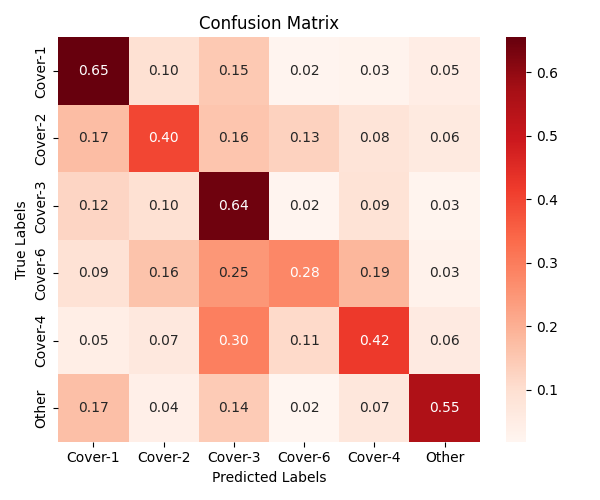
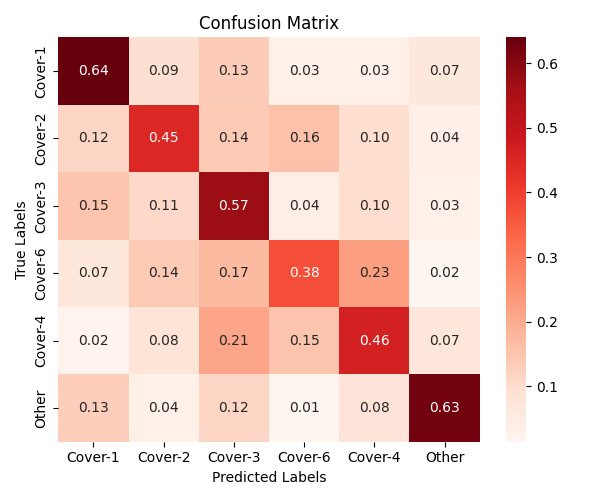
added feature for offensive_formation

diff --git a/passing_down.py b/passing_down.py
@@ -52,13 +52,15 @@ class PassingDown():
             target_y = stat_encodings.encode_passCoverage(play['pff_passCoverage'])
             if target_y == -1:
                 print('\tExcluded')
-                return torch.zeros(54)
+                return torch.zeros(55)
             
             # Extract pff_manZone
             man_zone = stat_encodings.encode_manZone(play['pff_manZone'])
 
-            # Extract receiverAlignment
-            alignment = stat_encodings.encode_receiverAlignment(play['receiverAlignment'])
+            # Extract receiverAlignment and offensiveFormation
+            receiver_alignment = stat_encodings.encode_receiverAlignment(play['receiverAlignment'])
+            offensive_formation = stat_encodings.encode_offenseFormation(play['offensiveFormation'])
+
 
             # Extract possessionTeamScoreDiff
             play_temp = pd.DataFrame([play])
@@ -225,7 +227,8 @@ class PassingDown():
 
                 
             # Combine all input features
-            features['offensive_alignment'] = alignment
+            features['receiver_alignment'] = receiver_alignment
+            features['offensive_formation'] = offensive_formation
             features['possessionTeamScoreDiff'] = possessionTeamScoreDiff
             features['quarter'] = quarter
             features['down'] = down
@@ -261,7 +264,8 @@ class PassingDown():
             if verbose:
                 print('TARGET_Y:\t\t\t', target_y)
                 print('Man or Zone:\t\t\t', man_zone)
-                print('offensive_alignment:\t\t', alignment)
+                print('receiver_alignment:\t\t', receiver_alignment)
+                print('offensive_formation:\t\t', offensive_formation)
                 print('possessionTeamScoreDiff:\t', possessionTeamScoreDiff)
                 print('quarter:\t\t\t', quarter)
                 print('down:\t\t\t\t', down)
@@ -304,7 +308,7 @@ class PassingDown():
         
         except Exception as e:
             print('\tError processing:', e)
-            return torch.zeros(54)
+            return torch.zeros(55)
 
 
 
@@ -328,8 +332,8 @@ class PassingDown():
         print('all passing play length:', len(passing_play_data))
 
         count = 0
-        start = 0
-        limit = 2500
+        start = 2500
+        limit = 5500
         for i,passing_play in passing_play_data.iterrows():
             count += 1
             if count <= start:
@@ -388,7 +392,7 @@ class PassingDown():
         columns = ['defender1_x', 'defender1_y', 'defender2_x', 'defender2_y', 'defender3_x', 'defender3_y', 
         'defender4_x', 'defender4_y', 'defender5_x', 'defender5_y', 'defender6_x', 'defender6_y',
         'defender7_x', 'defender7_y', 'defender8_x', 'defender8_y', 'defender9_x', 'defender9_y', 
-        'defender10_x', 'defender10_y', 'defender11_x', 'defender11_y', 'offensive_alignment', 
+        'defender10_x', 'defender10_y', 'defender11_x', 'defender11_y', 'receiver_alignment', 'offensive_formation', 
         'possessionTeamScoreDiff', 'quarter', 'down', 'yards_to_go', 'deepest_safety_depth', 
         'next_deepest_safety_depth', 'middle_field_count', 'outside_field_count', 'players_near_los', 
         'players_in_box', 'avg_defender_depth', 'std_defender_depth', 'avg_cb_depth', 'min_cb_depth', 'max_cb_depth',

diff --git a/random_tree.py b/random_tree.py
@@ -9,22 +9,24 @@ import matplotlib.pyplot as plt
 import numpy as np
 import seaborn as sns
 from sklearn.metrics import confusion_matrix
+from imblearn.over_sampling import SMOTE
 import time
 
 def RandomForest(x, y, dataframe):
 
     train_x, test_x, train_y, test_y = train_test_split(x, y, test_size=0.2, random_state=42)
 
-    # class_weights = {2.0: 1, 0.0: 1.2, 1.0: 1.5, 3.0: 2, 4.0: 1.3, 5.0: 1.5}
-    rf = RandomForestClassifier(n_estimators=100, max_depth=10, random_state=42, class_weight='balanced') # 42
+    # smote = SMOTE(random_state=42)
+    # train_x_smote, train_y_smote = smote.fit_resample(train_x, train_y)
+
+    # Best results:  n_estimators=200, max_depth=20, random_state=42, class_weight='balanced'
+    rf = RandomForestClassifier(n_estimators=300, max_depth=20, random_state=42, class_weight='balanced') # 42
     rf.fit(train_x, train_y)
     y_pred_rf = rf.predict(test_x)
 
     majority_class = np.bincount(train_y).argmax()
-    # y_pred_baseline = [majority_class] * len(test_y)
     baseline_preds = np.full_like(test_y, majority_class)
     baseline_accuracy = accuracy_score(test_y, baseline_preds)
-    
 
     precision_baseline = precision_score(test_y, baseline_preds, average='weighted', zero_division=0)
     recall_baseline = recall_score(test_y, baseline_preds, average='weighted')
@@ -32,10 +34,10 @@ def RandomForest(x, y, dataframe):
 
     print('======================================================================================================')
     print(f'Random Forest Accuracy: {accuracy_score(test_y, y_pred_rf)*100:.2f}% (~0.02 seconds)')
-    print(f'Baseline Accuracy:\t{baseline_accuracy*100}%')
-    print(f'Baseline Precision:\t{precision_baseline*100}%')
-    print(f'Baseline Recall:\t{recall_baseline*100}%')
-    print(f'Baseline F1-Score:\t{f1_baseline*100}%')
+    print(f'Baseline Accuracy:\t{baseline_accuracy*100:.2f}%')
+    print(f'Baseline Precision:\t{precision_baseline*100:.2f}%')
+    print(f'Baseline Recall:\t{recall_baseline*100:.2f}%')
+    print(f'Baseline F1-Score:\t{f1_baseline*100:.2f}%')
     print(classification_report(test_y, y_pred_rf))
 
 
@@ -54,7 +56,7 @@ def RandomForest(x, y, dataframe):
     plt.barh(features[:20], feature_importance[sorted_idx][:20], color=cardinals_red)
     plt.xlabel('Feature Importance Score')
     plt.ylabel('Features')
-    plt.title('Top 10 Most Important Features for Defensive Coverage Prediction')
+    plt.title('Top 10 Most Important Features for Defensive Pass Coverage Prediction')
     plt.gca().invert_yaxis()
     plt.tight_layout()
     plt.savefig('diagrams/rf_feature_importance.png')

diff --git a/main.py b/main.py
@@ -23,12 +23,12 @@ def main():
 
     set_seed()
     
-    # passing_down_model = PassingDown()
-    # start_time = time.perf_counter()
-    # passing_down_model.get_defensive_features_for_passing_plays()
-    # end_time = time.perf_counter()
-    # elapsed_time = end_time - start_time
-    # print(f"Function took {elapsed_time} seconds to complete.")
+    passing_down_model = PassingDown()
+    start_time = time.perf_counter()
+    passing_down_model.get_defensive_features_for_passing_plays()
+    end_time = time.perf_counter()
+    elapsed_time = end_time - start_time
+    print(f"Function took {elapsed_time} seconds to complete.")
 
 
     # RUN MODELS
